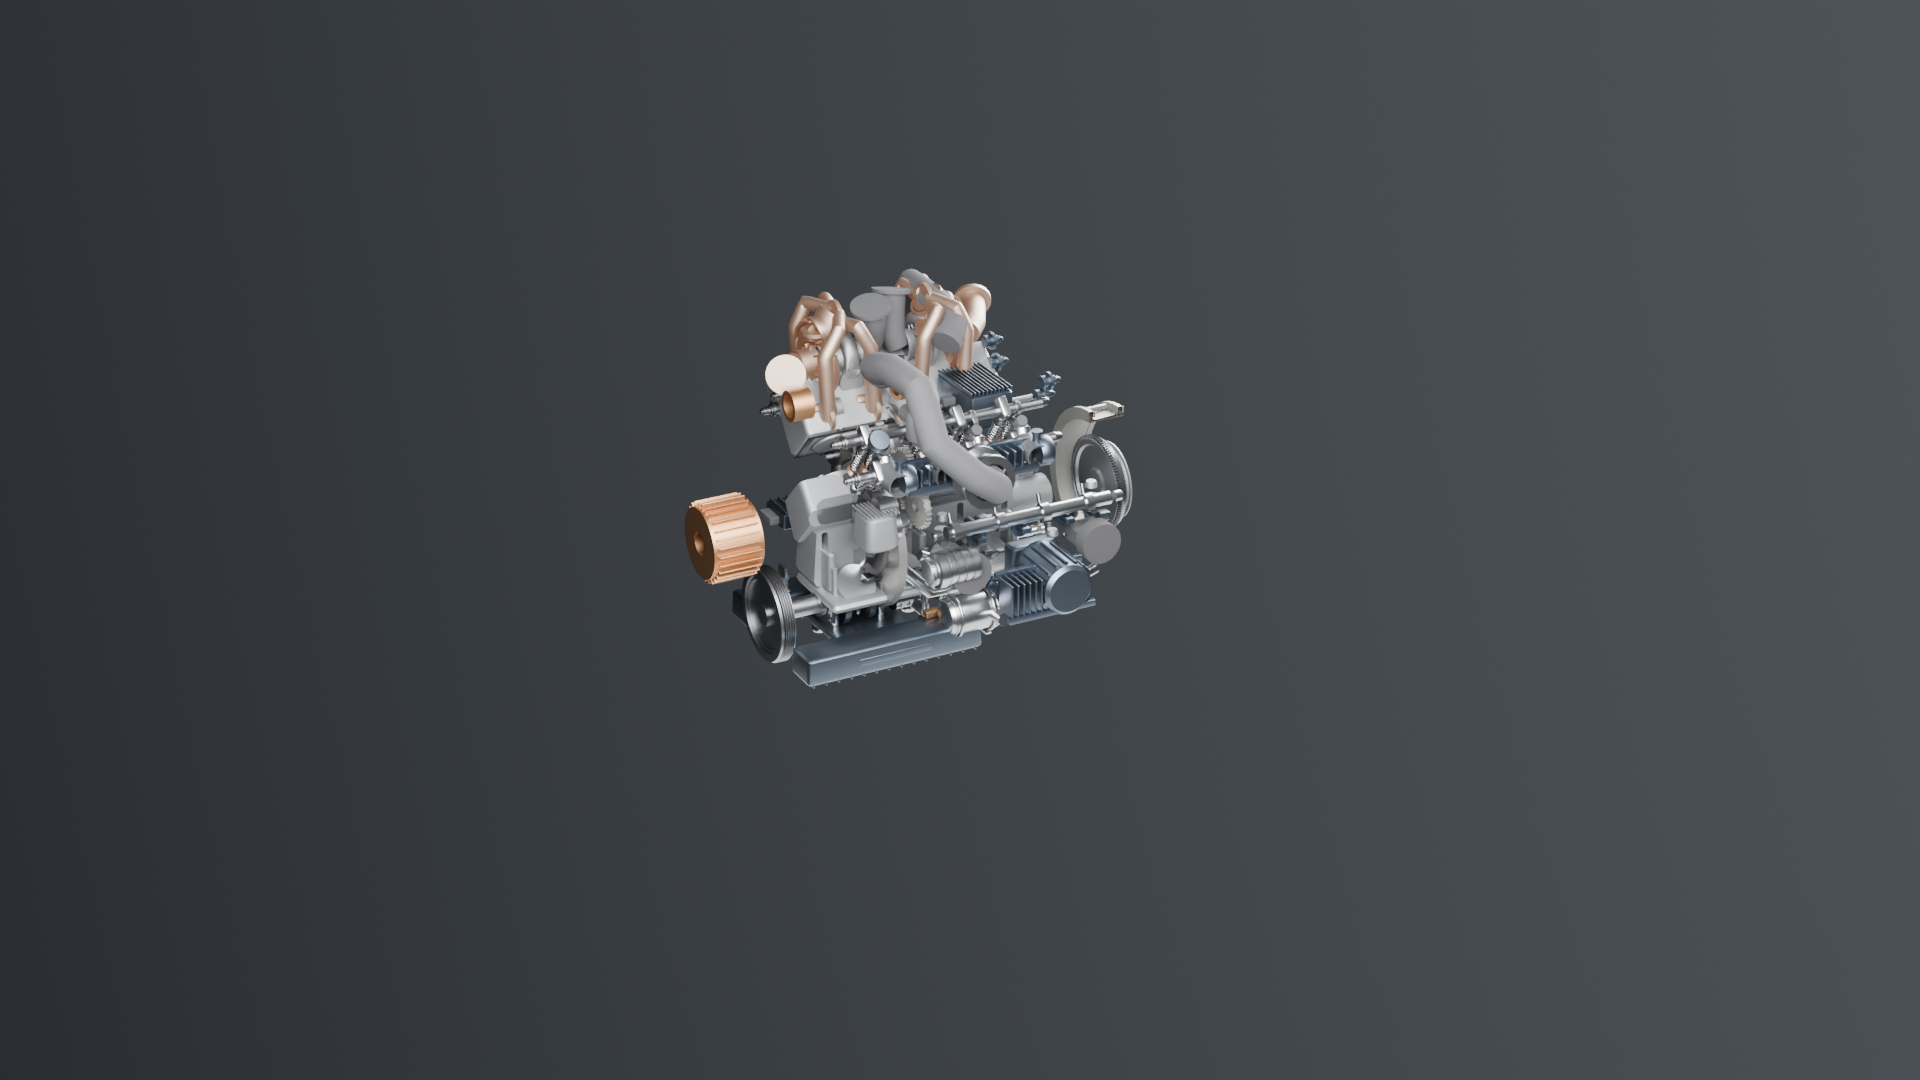
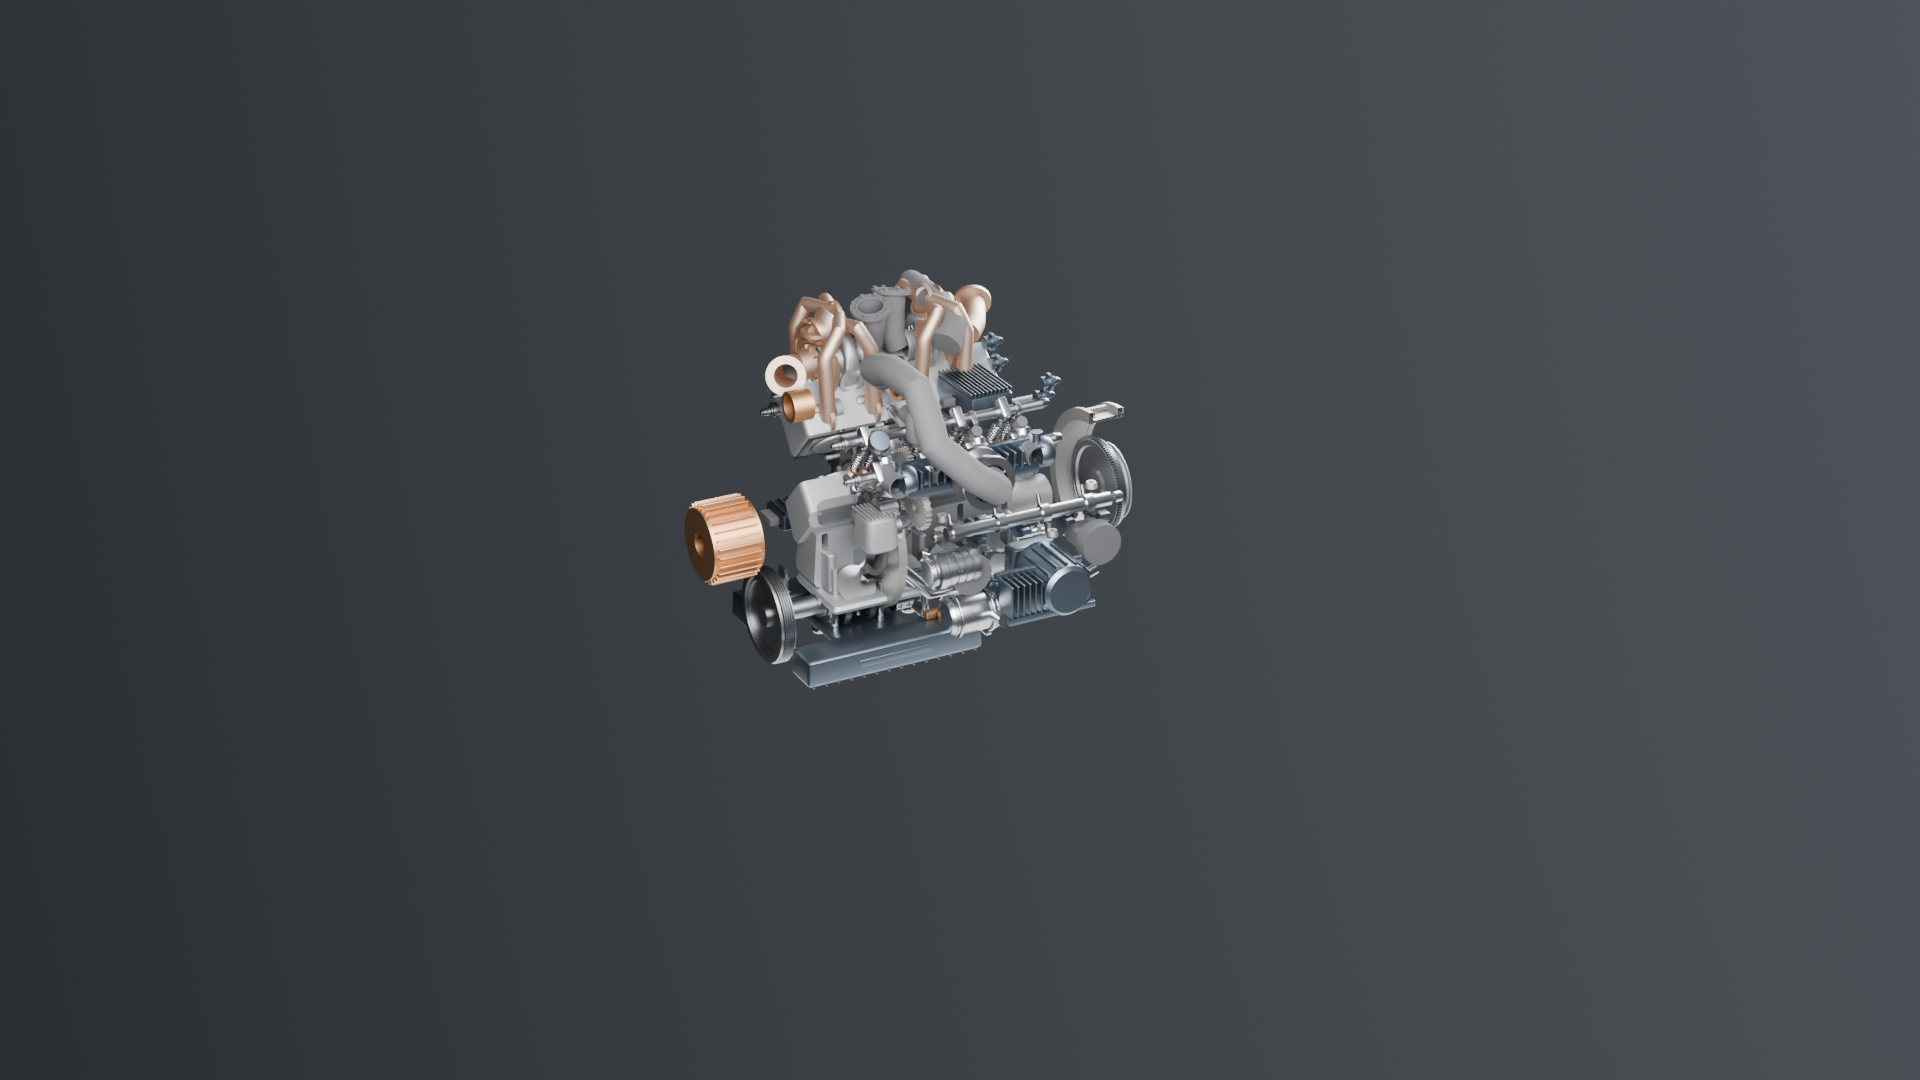
Open out every bore that was capped with a disc, and frame the hero shot on the engine
mesh.revolve_open's caps close an end with a fan to the AXIS. That is
right for a profile that ends at r = 0 -- a nose cone, a ball bearing --
and it is what the docstring says. Used on a profile that comes back to
the radius it started at, which is what a flange, boss, union, clamp,
plug well or port boss is, it lays a flat disc across the bore and the
part comes out a solid puck.

That is what the blank white circle in the middle of every hero render
was: the mouth of the tailpipe, 78 mm across, closed off. It was also the
hole in all fifty bolt bosses, the plug wells the spark plugs drop into,
the port bosses round the ports, the turbo's centre housing, its oil and
water bosses, the collector mouths and both flange builders.

mesh.revolve_ring revolves the closed loop properly and works out the
winding itself from the sign of the loop's area, so a profile written in
whichever direction reads best still comes out with its normals outward.
The one cap left over a non-zero radius is the pent-roof chamber, which
is a recess in the head and closes into the casting on purpose.

The ducts themselves were capped rods. compressor_inlet and tailpipes are
built from _bored_duct now: two swept tubes, the inner one turned inside
out, stitched to each other at both ends, so the part is a single closed
surface with a hole down it rather than two shells that happen to touch.

And the hero shot framed the engine at a third of the width of the
[…]

diff --git a/engine/parts/turbo.py b/engine/parts/turbo.py
@@ -168,21 +168,30 @@ def _snout(x, dirn, r_in, r_out, r_lip):
     return [(px, py, pz + T["z"]) for (px, py, pz) in v], f
 
 
-def _flange_at(at, towards, r, thick, pad):
-    """A bolted flange standing normal to the duct it terminates."""
+def _duct_frame(at, towards):
+    """(origin, axis, and two perpendiculars) for something on a duct end."""
     d = [towards[k] - at[k] for k in range(3)]
     m = math.dist(at, towards) or 1.0
     d = [c / m for c in d]
-    v, f = mesh.revolve_open(
-        [(0.0, r), (0.0, r + pad), (thick, r + pad), (thick, r)],
-        SM, cap_start=True, cap_end=True)
     up = (0.0, 0.0, 1.0) if abs(d[2]) < 0.9 else (0.0, 1.0, 0.0)
     n1 = mesh._normalise(mesh._cross(d, up))
     n2 = mesh._cross(d, n1)
-    return ([(at[0] + d[0] * px + n1[0] * py + n2[0] * pz,
-              at[1] + d[1] * px + n1[1] * py + n2[1] * pz,
-              at[2] + d[2] * px + n1[2] * py + n2[2] * pz)
-             for (px, py, pz) in v], f)
+
+    def place(verts):
+        return [(at[0] + d[0] * px + n1[0] * py + n2[0] * pz,
+                 at[1] + d[1] * px + n1[1] * py + n2[1] * pz,
+                 at[2] + d[2] * px + n1[2] * py + n2[2] * pz)
+                for (px, py, pz) in verts]
+
+    return place
+
+
+def _flange_at(at, towards, r, thick, pad):
+    """A bolted flange standing normal to the duct it terminates."""
+    place = _duct_frame(at, towards)
+    v, f = mesh.revolve_ring(
+        [(0.0, r), (0.0, r + pad), (thick, r + pad), (thick, r)], SM)
+    return (place(v), f)
 
 
 # --------------------------------------------------------------------------
@@ -211,16 +220,16 @@ def _centres():
                 (tx + hw - 4.0, r * 3.6), (tx + hw - 4.0, r * 1.25)]
         # 28 segments, not 48: this is a 55 mm casting between two
         # housings, and it was carrying 14,000 vertices of its own
-        v, f = mesh.revolve_open(prof, SM, cap_start=True, cap_end=True)
+        v, f = mesh.revolve_ring(prof, SM)
         parts.append(([(px, py, pz + T["z"]) for (px, py, pz) in v], f))
         # oil in at the top, out at the bottom, water across the middle
         # Oil in at the side, out of the bottom. The feed boss is normally on
         # top; here the exhaust collector passes directly over the bearing
         # housing on its way to the turbine, so a line coming down onto a top
         # boss would come down through it.
-        fv, ff = mesh.revolve_open(
+        fv, ff = mesh.revolve_ring(
             [(0.0, 4.0), (0.0, 9.0), (26.0, 9.0), (26.0, 12.0),
-             (32.0, 12.0), (32.0, 4.0)], SM, cap_start=True, cap_end=True)
+             (32.0, 12.0), (32.0, 4.0)], SM)
         # straight down, beside the drain. There is nowhere else: above the
         # bearing housing is the collector, on the bank side the compressor's
         # own outlet and the charge pipe leaving it, on top the wastegate
@@ -228,16 +237,15 @@ def _centres():
         # the length of the vee from y = 16 to y = 77.
         parts.append(([(pz + tx - 13.0, py, -px + T["z"] - r * 2.4)
                        for (px, py, pz) in fv], ff))
-        dv, df = mesh.revolve_open(
+        dv, df = mesh.revolve_ring(
             [(0.0, 8.0), (0.0, 13.0), (20.0, 13.0), (20.0, 17.5),
-             (26.0, 17.5), (26.0, 8.0)], SM, cap_start=True, cap_end=True)
+             (26.0, 17.5), (26.0, 8.0)], SM)
         parts.append(([(pz + tx + 13.0, py, -px + T["z"] - r * 2.4)
                        for (px, py, pz) in dv], df))
         # and the water jacket unions, one each side
         for s2 in (-1.0, 1.0):
-            wv, wf = mesh.revolve_open(
-                [(0.0, 4.0), (0.0, 7.5), (13.0, 7.5), (13.0, 4.0)],
-                SM, cap_start=True, cap_end=True)
+            wv, wf = mesh.revolve_ring(
+                [(0.0, 4.0), (0.0, 7.5), (13.0, 7.5), (13.0, 4.0)], SM)
             parts.append(([(pz + tx + s2 * 18.0, s2 * px * 0.0 + py,
                             s2 * 0.0 + px + T["z"] + r * 2.2)
                            for (px, py, pz) in wv], wf))
@@ -344,6 +352,38 @@ def _oil():
     return out
 
 
+def _bored_duct(path, r_out, wall, seg, subdiv):
+    """A duct with a hole down it, as one watertight surface.
+
+    Two swept tubes, the inner one turned inside out, stitched to each other
+    at both ends. They share a path and a segment count, so their rings
+    correspond one for one and the two end rings close into an annulus -- the
+    part is a single closed surface with a bore, not two shells that happen to
+    touch.
+
+    Joining two capped pipes would have been easier and is what was here: the
+    cap on the open end was a flat disc 60 mm across sitting in the middle of
+    the flange, and it read in every render as a blank white circle stuck on
+    the front of the engine rather than as the mouth of an intake.
+    """
+    ov, of = mesh.pipe(path, r_out, seg, caps=False, subdiv=subdiv)
+    iv, if_ = mesh.pipe(path, [r - wall for r in r_out], seg,
+                        caps=False, subdiv=subdiv)
+    n = len(ov)
+    ns = mesh._T(seg)
+    rings = n // ns
+    verts = list(ov) + list(iv)
+    # the inner wall faces into the bore, so its winding is reversed
+    faces = [tuple(f) for f in of]
+    faces += [tuple(i + n for i in reversed(f)) for f in if_]
+    for base, first in (((rings - 1) * ns, False), (0, True)):
+        for k in range(ns):
+            a0, a1 = base + k, base + (k + 1) % ns
+            b0, b1 = a0 + n, a1 + n
+            faces.append((a0, b0, b1, a1) if first else (a0, a1, b1, b0))
+    return verts, faces
+
+
 def _inlets():
     """What each compressor breathes through.
 
@@ -365,13 +405,39 @@ def _inlets():
                 (eye[0] + ib * 2.0, sgn * 8.0, T["z"] + 30.0),
                 (eye[0] - ib * 2.0, sgn * 22.0, T["z"] + 72.0),
                 (eye[0] - ib * 8.0, sgn * 30.0, T["z"] + 106.0)]
-        parts = [mesh.pipe(path, [26.0, 27.0, 29.0, 30.0],
-                           spec.RES["pipe"], subdiv=5)]
-        parts.append(_flange_at(path[-1],
-                                (path[-1][0] + (path[-1][0] - path[-2][0]),
-                                 path[-1][1] + (path[-1][1] - path[-2][1]),
-                                 path[-1][2] + (path[-1][2] - path[-2][2])),
-                                30.0, 8.0, 11.0))
+        # A duct with a bore, not a capped rod.
+        #
+        # mesh.pipe caps both ends, so this finished in a flat disc 60 mm
+        # across sitting in the middle of the flange -- a blank white circle
+        # in every render, reading as a sticker rather than the mouth of an
+        # intake. Two walls with a bore between them, closed by a ring at the
+        # compressor end and by the flange at the other, so the part is still
+        # watertight and you can see down it.
+        wall = 4.0
+        r_out = [26.0, 27.0, 29.0, 30.0]
+        parts = [_bored_duct(path, r_out, wall, spec.RES["pipe"], 5)]
+        r_in = [r - wall for r in r_out]
+        end = (path[-1][0] + (path[-1][0] - path[-2][0]),
+               path[-1][1] + (path[-1][1] - path[-2][1]),
+               path[-1][2] + (path[-1][2] - path[-2][2]))
+        parts.append(_flange_at(path[-1], end, r_in[-1], 8.0,
+                                r_out[-1] - r_in[-1] + 11.0))
+        # the radius round the mouth, and the bolts the car's ducting picks up
+        place = _duct_frame(path[-1], end)
+        tv, tf = mesh.ring_torus(0.0, r_in[-1] + 2.2, 2.2, SM, 10)
+        # _duct_frame maps (axial, y, z) onto the duct, and everything the
+        # lathe makes already has its axis along x -- so the offset goes on
+        # px. Putting it on pz stood the ring on edge, as a blade across the
+        # mouth of the pipe.
+        parts.append((place([(px + 8.0, py, pz) for (px, py, pz) in tv]), tf))
+        n_bolt = 8
+        for k in range(n_bolt):
+            a = 2.0 * math.pi * k / n_bolt
+            rb = r_out[-1] + 5.5
+            bv, bf = mesh.cylinder(0.0, 5.0, 4.2, 12)
+            parts.append((place([(px + 8.0, py + rb * math.cos(a),
+                                  pz + rb * math.sin(a))
+                                 for (px, py, pz) in bv]), bf))
         out[f"compressor_inlet_{tag}"] = mesh.join(*parts)
     return out
 
@@ -404,11 +470,17 @@ def _tailpipes():
                 (out_pt[0] + d * 26.0, sgn * 26.0, T["z"] + 8.0),
                 (out_pt[0] + d * 46.0, sgn * 62.0, T["z"] + 18.0),
                 (out_pt[0] + d * 58.0, sgn * 88.0, T["z"] + 26.0)]
-        parts.append(mesh.pipe(path, E["collector_r"],
-                               spec.RES["pipe"], subdiv=5))
-        parts.append(_flange_at(path[-1],
-                                (path[-1][0] + (path[-1][0] - path[-2][0]),
-                                 path[-1][1] + (path[-1][1] - path[-2][1]),
-                                 path[-1][2] + (path[-1][2] - path[-2][2])),
-                                E["collector_r"], 9.0, 13.0))
+        # bored, not capped: this is the end of the exhaust and you have to be
+        # able to see down it
+        wall = 3.0
+        r_out = E["collector_r"]
+        parts.append(_bored_duct(path, [r_out] * len(path), wall,
+                                 spec.RES["pipe"], 5))
+        end = (path[-1][0] + (path[-1][0] - path[-2][0]),
+               path[-1][1] + (path[-1][1] - path[-2][1]),
+               path[-1][2] + (path[-1][2] - path[-2][2]))
+        # No V-band clamp round the outside of this one. There is 45 mm to the
+        # cam sensor under the back of the bank and a band big enough to go
+        # over the flange lands on it; the flange is the feature anyway.
+        parts.append(_flange_at(path[-1], end, r_out - wall, 9.0, 13.0 + wall))
     return {"tailpipes": mesh.join(*parts)}

diff --git a/engine/parts/plumbing.py b/engine/parts/plumbing.py
@@ -65,9 +65,8 @@ def _primaries():
         # the collector so the pulse arrives with some velocity behind it.
         radii = [16.5, 15.5, 14.0, 12.5]
         tube = mesh.pipe(path, radii, spec.RES["pipe"], subdiv=7)
-        flange = mesh.revolve_open(
-            [(-4.0, 16.5), (-4.0, 26.0), (5.0, 26.0), (5.0, 16.5)],
-            SM, cap_start=True, cap_end=True)
+        flange = mesh.revolve_ring(
+            [(-4.0, 16.5), (-4.0, 26.0), (5.0, 26.0), (5.0, 16.5)], SM)
         # stand the flange on the port face, normal to the bank
         d = common.bank_dir(bank)
         lat = common.bank_lat(bank)
@@ -98,9 +97,8 @@ def _collectors():
                            spec.RES["pipe"], subdiv=6)]
         # the mouth the four primaries land in, and the flange at the turbine
         mouth, r0 = path[0], gaspath.COLLECTOR_RADII[0]
-        mv, mf = mesh.revolve_open(
-            [(-6.0, r0), (-6.0, r0 + 3.0), (3.0, r0 + 3.0), (3.0, r0)],
-            SM, cap_start=True, cap_end=True)
+        mv, mf = mesh.revolve_ring(
+            [(-6.0, r0), (-6.0, r0 + 3.0), (3.0, r0 + 3.0), (3.0, r0)], SM)
         parts.append(([(px + mouth[0], py + mouth[1], pz + mouth[2])
                        for (px, py, pz) in mv], mf))
         parts.append(_inlet_flange(path[-1], path[-2],
@@ -114,9 +112,8 @@ def _inlet_flange(at, towards, r, thick=7.0, pad=11.0):
     d = [at[k] - towards[k] for k in range(3)]
     m = math.dist(at, towards) or 1.0
     d = [c / m for c in d]
-    v, f = mesh.revolve_open(
-        [(-thick, r), (-thick, r + pad), (0.0, r + pad), (0.0, r)],
-        SM, cap_start=True, cap_end=True)
+    v, f = mesh.revolve_ring(
+        [(-thick, r), (-thick, r + pad), (0.0, r + pad), (0.0, r)], SM)
     # the lathe runs along +x; swing it onto the duct's own direction
     up = (0.0, 0.0, 1.0) if abs(d[2]) < 0.9 else (0.0, 1.0, 0.0)
     n1 = mesh._normalise(mesh._cross(d, up))
@@ -148,9 +145,8 @@ def _runners():
         path = list(reversed(flow))
         radii = [15.0, 16.5, 18.0, 25.0]
         tube = mesh.pipe(path, radii, spec.RES["pipe"], subdiv=7)
-        flange = mesh.revolve_open(
-            [(-4.0, 15.0), (-4.0, 24.0), (5.0, 24.0), (5.0, 15.0)],
-            SM, cap_start=True, cap_end=True)
+        flange = mesh.revolve_ring(
+            [(-4.0, 15.0), (-4.0, 24.0), (5.0, 24.0), (5.0, 15.0)], SM)
         d = common.bank_dir(bank)
         lat = common.bank_lat(bank)
         fv = [(port[0] + px, port[1] + py * lat[1] + pz * d[1],

diff --git a/engine/mesh.py b/engine/mesh.py
@@ -102,6 +102,32 @@ def revolve_open(profile, segments=96, cap_start=False, cap_end=False, phase=0.0
     return verts, faces
 
 
+def revolve_ring(profile, segments=96, phase=0.0):
+    """Revolve a closed meridional loop that does NOT touch the axis.
+
+    This is the shape almost every flange, boss, union and clamp on an engine
+    actually is: a section with a hole down the middle. The obvious way to
+    build one -- revolve_open on the loop with cap_start and cap_end -- is
+    wrong, and quietly so. Those caps are fans to the AXIS, which is right for
+    a profile that ends at r = 0 and closes a nose cone, and for one that ends
+    at r = 21 it lays a flat disc straight across the bore. The part comes out
+    a solid puck, and in a render it is a blank circle with no feature on it
+    at all: the mouth of the tailpipe, the hole in every bolt boss, the well
+    the spark plug drops into.
+
+    The loop's winding is fixed here rather than at each call site, from the
+    sign of its area in (x, r), so a profile written in whichever direction
+    reads best still comes out with its normals pointing outward.
+    """
+    a2 = 0.0
+    for i in range(len(profile)):
+        x0, r0 = profile[i]
+        x1, r1 = profile[(i + 1) % len(profile)]
+        a2 += x0 * r1 - x1 * r0
+    return revolve_closed(list(profile) if a2 > 0 else list(reversed(profile)),
+                          segments, phase)
+
+
 # --------------------------------------------------------------------------
 # Convenience solids
 # --------------------------------------------------------------------------

diff --git a/engine/render.py b/engine/render.py
@@ -95,12 +95,20 @@ def collect_corners():
             w = o.matrix_world @ V(c)
             xs.append(w.x); ys.append(w.y); zs.append(w.z)
     cen = V(((min(xs)+max(xs))/2, (min(ys)+max(ys))/2, (min(zs)+max(zs))/2))
-    size = V((max(xs)-min(xs), max(ys)-min(ys), max(zs)-min(zs)))
+    # Every part's own box, not one box round the whole engine.
+    #
+    # The framing is fitted to these corners, so what they enclose is what
+    # ends up filling the frame. One global box round a V8 is very nearly a
+    # cube, and seen from the three-quarter angle the hero shot uses, four of
+    # its eight corners are empty air a long way outside the engine's actual
+    # outline -- so the camera backed off far enough to keep that air in shot
+    # and the engine came out a third of the width of the picture. The union
+    # of the parts' own boxes still contains every vertex, and hugs the shape
+    # instead of the air around it.
     CORNERS.clear()
-    for sx in (-.5, .5):
-        for sy in (-.5, .5):
-            for sz in (-.5, .5):
-                CORNERS.append(V((size.x*sx, size.y*sy, size.z*sz)))
+    for o in meshes():
+        for c in o.bound_box:
+            CORNERS.append((o.matrix_world @ V(c)) - cen)
     return cen
 
 

diff --git a/engine/parts/heads.py b/engine/parts/heads.py
@@ -103,17 +103,16 @@ def _head_features(bank):
         parts.append((common.along_bank(cv, x, spec.DECK_HEIGHT + 4.0, bank), cf))
 
         # plug well
-        wv, wf = mesh.revolve_open(
-            [(0.0, 9.0), (0.0, 15.0), (30.0, 15.0), (30.0, 9.0)], SM,
-            cap_start=True, cap_end=True)
+        wv, wf = mesh.revolve_ring(
+            [(0.0, 9.0), (0.0, 15.0), (30.0, 15.0), (30.0, 9.0)], SM)
         parts.append((common.along_bank(wv, x, spec.DECK_HEIGHT + 10.0, bank), wf))
 
         # port bosses, one each side, around the valve pairs
         for is_in, lat_sgn in ((True, -1.0), (False, 1.0)):
             hr = V_["intake_head_r"] if is_in else V_["exhaust_head_r"]
-            pv, pf = mesh.revolve_open(
+            pv, pf = mesh.revolve_ring(
                 [(0.0, hr * 1.10), (0.0, hr * 1.45), (16.0, hr * 1.40),
-                 (16.0, hr * 1.05)], SM, cap_start=True, cap_end=True)
+                 (16.0, hr * 1.05)], SM)
             d = common.bank_dir(bank)
             lat = common.bank_lat(bank)
             # from the declared ports, so the boss is round the hole

diff --git a/engine/shapes.py b/engine/shapes.py
@@ -119,9 +119,9 @@ def connector(cx, cy, cz, sx=26.0, sy=18.0, sz=14.0, pins=6):
 
 def bolt_boss(cx, cy, cz, r=9.0, h=10.0, seg=10):
     """A raised pad with a bolt hole, where something fastens to a casting."""
-    return mesh.revolve_open(
+    return mesh.revolve_ring(
         [(0.0, r * 0.42), (0.0, r), (h * 0.6, r * 0.92), (h, r * 0.78),
-         (h, r * 0.42)], seg, cap_start=True, cap_end=True)
+         (h, r * 0.42)], seg)
 
 
 def ribbed_cover(x0, x1, half_w, z_base, height, n_ribs=7, rib_h=5.0,
